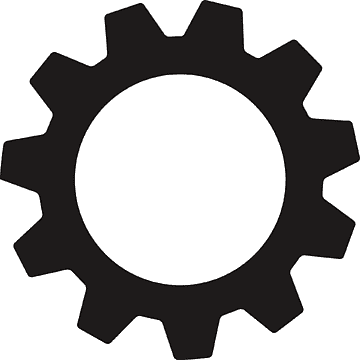
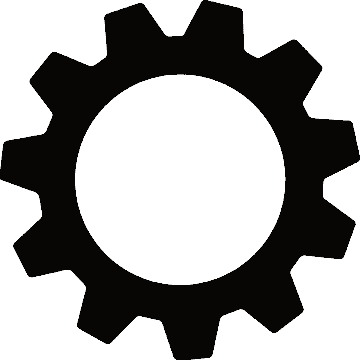
restart level por fin TOMO M[AS DE LO QUE DEBER[IA PORQUE SOY  TONTO

diff --git a/ViboritaGame/ViboritaGame/Viborita.cpp b/ViboritaGame/ViboritaGame/Viborita.cpp
@@ -58,15 +58,15 @@ Vec3* Viborita::getMovementDirection()
 	return movementDir;
 }
 
-void Viborita::handleMovement(Vec3* movementDir) {
+bool Viborita::handleMovement(Vec3* movementDir) {
 	Vec3 nextGridIndex = { this->body.head->gridIndex.x + movementDir->x,this->body.head->gridIndex.y + movementDir->y,this->body.head->gridIndex.z + movementDir->z };
 
 	if (!gameContext->validTile(nextGridIndex)
 		|| gameContext->hasSolidBlock(nextGridIndex)) //Se choca con un bloque
-		return;
+		return false;
 	if (gameContext->hasViborita(nextGridIndex)) {
 		handleDeath();
-		return;
+		return false;
 	}
 
 	headDirection = { movementDir->x,movementDir->y,movementDir->z };
@@ -94,6 +94,7 @@ void Viborita::handleMovement(Vec3* movementDir) {
 		prevGrid = getVec3FromVec3(auxGrid);
 		aux = aux->next;
 	}
+	return true;
 }
 
 void Viborita::handleEatApple(Vec3* lastTailPos, Vec3* lastTailGrid)
@@ -157,6 +158,18 @@ void Viborita::handleDeath()
 	gameContext->resetLevel();
 }
 
+Viborita* Viborita::deepCopy()
+{
+	Viborita* copy = new Viborita(body.head->gridIndex,body.head->position,viboritaColors);
+	ViboritaPart* aux = body.head->next;
+	while (aux != NULL)
+	{
+		copy->addTail(aux->gridIndex);
+		aux = aux->next;
+	}
+	return copy;
+}
+
 GAME_ENTITY_TYPE Viborita::getType()
 {
 	return VIBORITA;
@@ -180,12 +193,14 @@ void Viborita::process(float deltaTime) {
 	Vec3* oldTailPos = getVec3FromVec3(this->body.tail->position);
 	Vec3* oldTailGrid = getVec3FromVec3(this->body.tail->gridIndex);
 
-	this->handleMovement(movementDir);
+	bool moved = this->handleMovement(movementDir);
 
-	if (gameContext->tileHasApple(body.head->gridIndex))
-		this->handleEatApple(oldTailPos, oldTailGrid);
+	if (moved) {
+		if (gameContext->tileHasApple(body.head->gridIndex))
+			this->handleEatApple(oldTailPos, oldTailGrid);
 
-	gameContext->addViborita(this->body.head->gridIndex);
+		gameContext->addViborita(this->body.head->gridIndex);
+	}
 }
 
 ViboritaPart* Viborita::getHead() {
@@ -218,4 +233,14 @@ void Viborita::addTail(Vec3 gridIndex)
 	this->body.tail->next = newTail;
 	this->body.tail = newTail;
 	gameContext->addViborita(newTail->gridIndex);
+}
+
+void Viborita::loadInGrid()
+{
+	ViboritaPart* aux = body.head;
+	while (aux != NULL)
+	{
+		gameContext->addViborita(aux->gridIndex);
+		aux = aux->next;
+	}
 }

diff --git a/ViboritaGame/ViboritaGame/GamePlay.cpp b/ViboritaGame/ViboritaGame/GamePlay.cpp
@@ -3,25 +3,20 @@
 void openSettings() {
 	printf("i wanna go to the settings pls");
 }
-
+void resetLevelCallback() {
+	GamePlay* gp = (GamePlay*)GameController::getInstance()->getState();
+	gp->resetLevel();
+}
 GamePlay::GamePlay(Level* level)
 {
 	this->level = level;
 	settings = new Button("images/settings.png", "images/settingsHover.png", 580, 10, 50, 50, openSettings);
+	reset = new Button("images/restart.png", "images/restartHover.png", 520, 10, 50, 50, resetLevelCallback);
 	std::string sText = "0/" + std::to_string(level->getMaxScore());
 	scoreText = new Button(sText.c_str(), 10, 10, 50, 50);
 	timerText = new Button("00:00", 280, 10, 80, 50);
-	this->stats = new GameStats(level->getMaxScore(),false);
-
-	for (int x = 0; x < 8;x++) {
-		for (int y = 0; y < 8;y++) {
-			for (int z = 0; z < 8;z++) {
-				this->grid[x][y][z] = level->getInitialGridPosition(x,y,z);
-			}
-		}
-	}
-	this->viborita = level->getInitialViborita();
-	this->viborita->setGameContext(this);
+	
+	startLevel();
 }
 
 void GamePlay::changeTimer(int time)
@@ -38,8 +33,36 @@ void GamePlay::beatLevel()
 {
 }
 
+void GamePlay::startLevel()
+{
+	std::string sText = "0/" + std::to_string(level->getMaxScore());
+	scoreText->updateText(sText.c_str());
+	timerText->updateText("00:00");
+
+	this->stats = new GameStats(level->getMaxScore(), false);
+
+	for (int x = 0; x < 8;x++) {
+		for (int y = 0; y < 8;y++) {
+			for (int z = 0; z < 8;z++) {
+				this->grid[x][y][z] = level->getInitialGridPosition(x, y, z);
+			}
+		}
+	}
+	this->viborita = level->getInitialViborita();
+	this->viborita->setGameContext(this);
+	this->viborita->loadInGrid();
+}
+
 void GamePlay::resetLevel()
 {
+	for (int x = 0; x < 8;x++) {
+		for (int y = 0; y < 8;y++) {
+			for (int z = 0; z < 8;z++) {
+				this->grid[x][y][z] = NULL;
+			}
+		}
+	}
+	startLevel();
 }
 
 void GamePlay::addSecond()
@@ -72,6 +95,7 @@ std::vector<Button*> GamePlay::getHudButtons()
 {
 	std::vector<Button*> buttons;
 	buttons.push_back(settings);
+	buttons.push_back(reset);
 	buttons.push_back(scoreText);
 	buttons.push_back(timerText);
 	return buttons;

diff --git a/ViboritaGame/ViboritaGame/Viborita.h b/ViboritaGame/ViboritaGame/Viborita.h
@@ -27,12 +27,14 @@ public:
 	ViboritaPart* getHead();
 	void setHead();
 	void addTail(Vec3 gridPosition);
+	void loadInGrid();
 	Vec3* getMovementDirection();
-	void handleMovement(Vec3* movementDir);
+	bool handleMovement(Vec3* movementDir);
 	void handleEatApple(Vec3* lastTailPos,Vec3* lastTailGrid);
 	bool hasFloor();
 	void handleFall();
 	void handleDeath();
+	Viborita* deepCopy();
 	GAME_ENTITY_TYPE getType();
 };
 

diff --git a/ViboritaGame/ViboritaGame/GamePlay.h b/ViboritaGame/ViboritaGame/GamePlay.h
@@ -10,6 +10,7 @@ class GamePlay :
 {
 private:
 	Button* settings;
+	Button* reset;
 	Button* scoreText;
 	Button* timerText;
 	Level* level;
@@ -22,6 +23,7 @@ public:
 	void process(float deltaTime);
 	void changeTimer(int time);
 	void beatLevel();
+	void startLevel();
 	void resetLevel();
 	void addSecond();
 	void draw();

diff --git a/ViboritaGame/ViboritaGame/Level.cpp b/ViboritaGame/ViboritaGame/Level.cpp
@@ -29,7 +29,7 @@ IGameEntity* Level::getInitialGridPosition(int x, int y, int z)
 
 Viborita* Level::getInitialViborita()
 {
-	return initialViborita;
+	return initialViborita->deepCopy();
 }
 
 int Level::getMaxScore()
